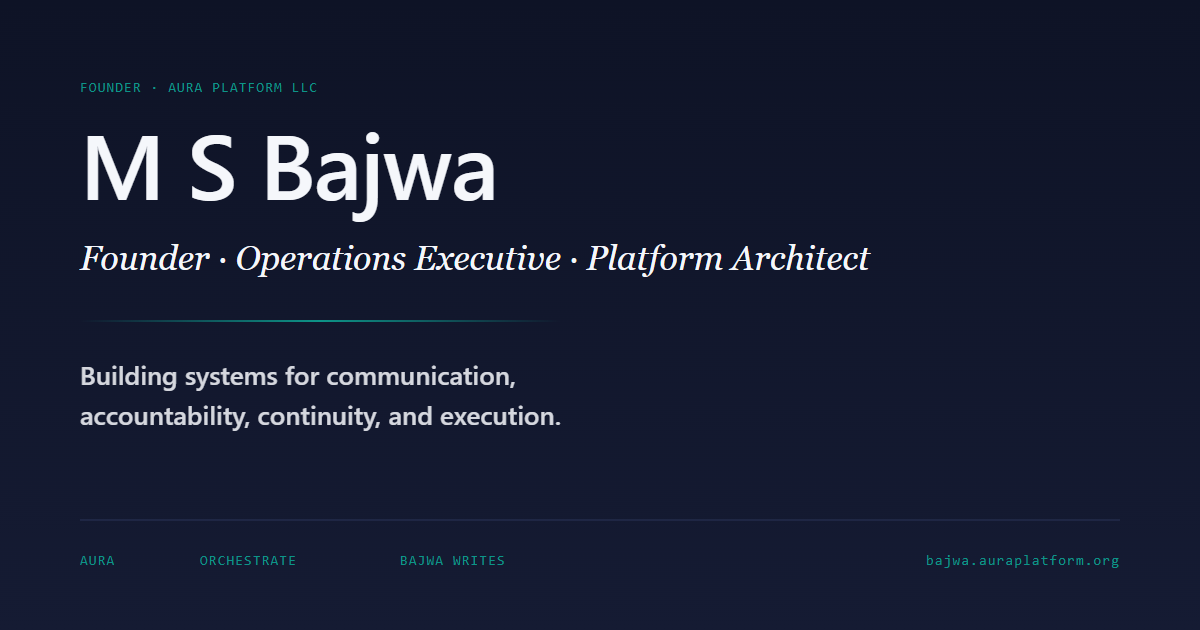
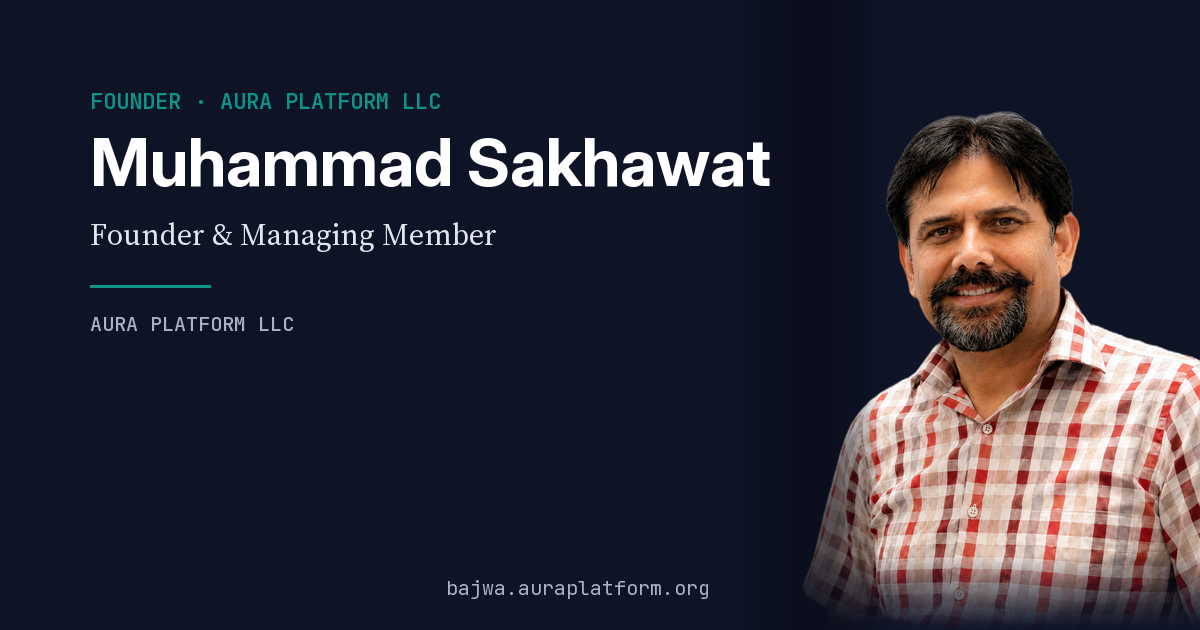
Fix broken founder portrait reference; consume canonical leadership portrait
index.html referenced assets/author.jpeg but the real file was assets/author.png,
so the founder's own portrait silently failed to load on his own site. Fixed the
reference, added the canonical processed portrait (transparent PNG, 1200x1600,
matched framing across all three Aura Platform leadership portraits) at
assets/images/leadership/author.png, corrected the alt text and title to match
governance ("Founder & Managing Member"), and refreshed og-bajwa.png to include
the portrait.

diff --git a/index.html b/index.html
@@ -175,8 +175,8 @@
       </div>
       <figure class="founder-portrait-frame">
         <img class="founder-portrait"
-             src="assets/author.jpeg"
-             alt="Muhammad Sakhawat Bajwa, Founder of Aura Platform LLC"
+             src="assets/images/leadership/author.png"
+             alt="Muhammad Sakhawat, Founder & Managing Member of Aura Platform LLC"
              width="1200" height="1600"
              loading="eager"
              decoding="async">
